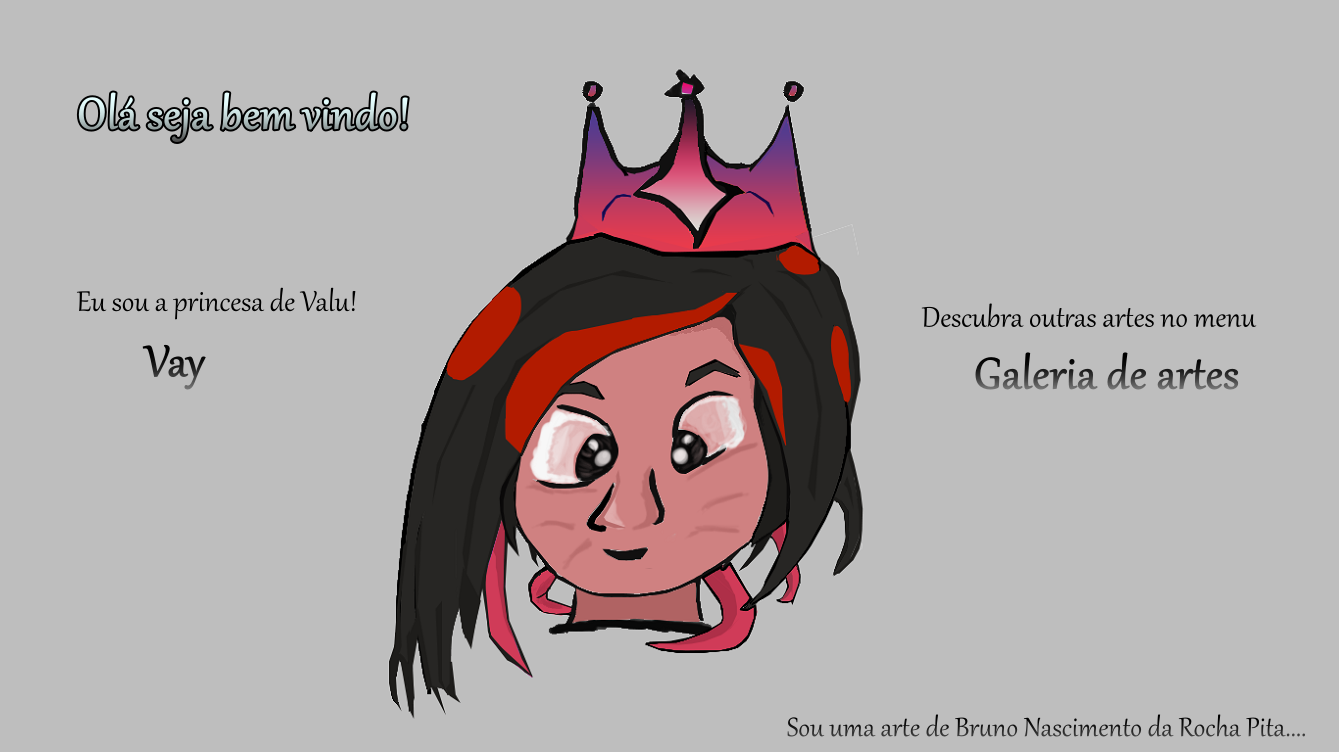
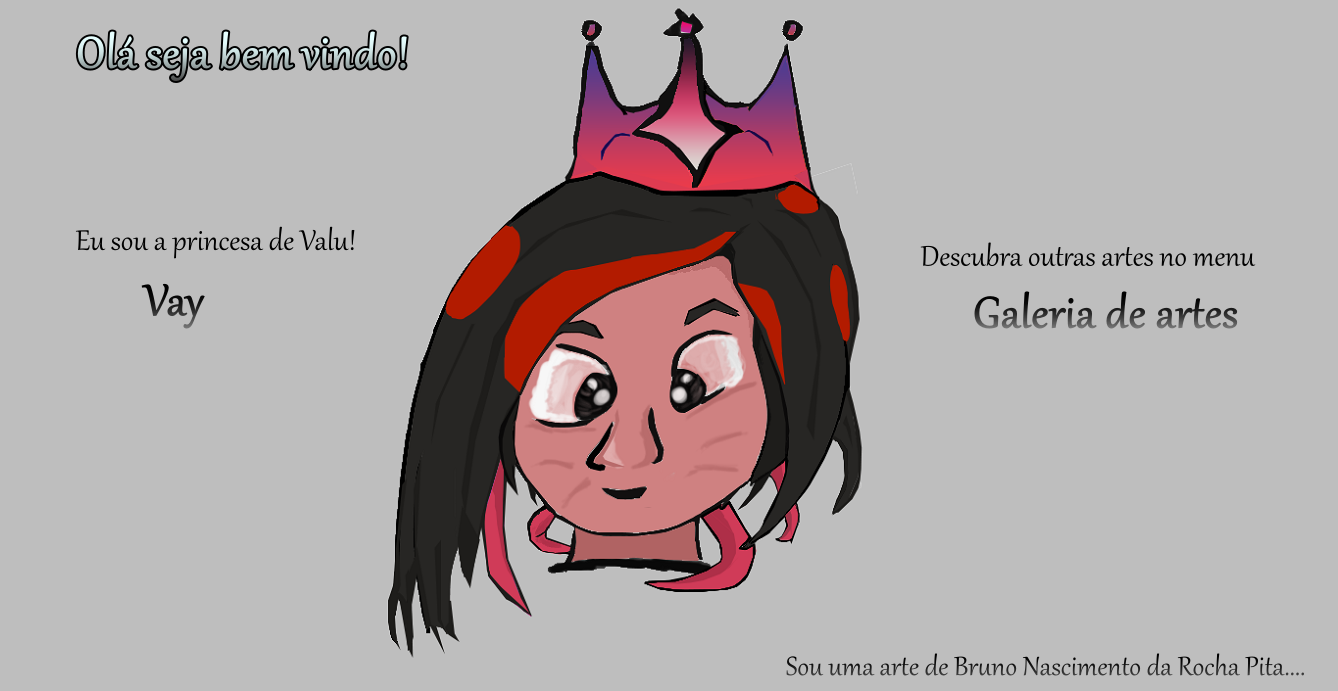
adjusting image

diff --git a/index.html b/index.html
@@ -19,8 +19,9 @@
 
 
 
-
+<div class="princess">
 <img src="assets/img/princess-1.png">
+</div>
 <hr  align="right" width="850px">
 
 </body>
